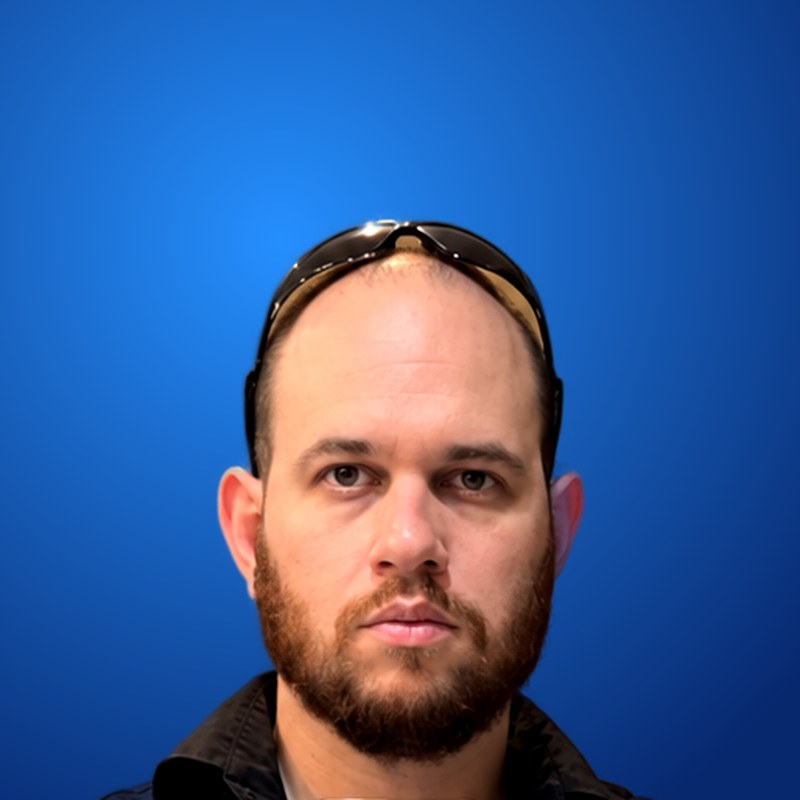
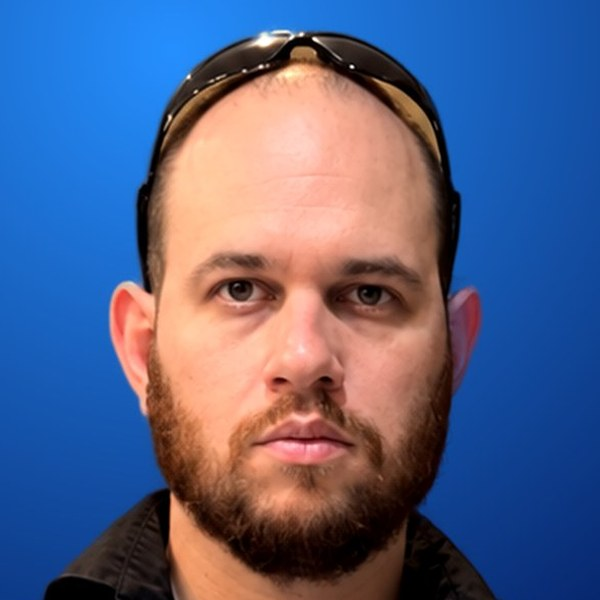
Aumenta a foto do Andrade na seção Sobre e aproxima o enquadramento do rosto
Claude-Session: https://claude.ai/code/session_01CSiihmqNh7Xu44A97bcgED

diff --git a/assets/css/style.css b/assets/css/style.css
@@ -102,7 +102,7 @@ p { margin: 0; }
 .profile-card { background: linear-gradient(160deg, #121822, #0D1118); border: 1px solid #1F2733; border-radius: 22px; padding: 32px; display: flex; flex-direction: column; gap: 20px; box-shadow: 0 30px 80px rgba(0,0,0,.45); }
 .profile-head { display: flex; align-items: center; gap: 16px; }
 .avatar { width: 64px; height: 64px; border-radius: 50%; background: linear-gradient(140deg, #007BFF, #083D91); display: flex; align-items: center; justify-content: center; font-family: var(--display); font-weight: 700; font-size: 28px; color: #FFFFFF; flex-shrink: 0; }
-.avatar--lg { width: 220px; height: 220px; font-size: 88px; background: radial-gradient(circle at 30% 30%, #2690FF, #083D91 70%); box-shadow: 0 0 0 8px rgba(0,123,255,.12); }
+.avatar--lg { width: 280px; height: 280px; font-size: 88px; background: radial-gradient(circle at 30% 30%, #2690FF, #083D91 70%); box-shadow: 0 0 0 8px rgba(0,123,255,.12); }
 .avatar { overflow: hidden; }
 .avatar img { width: 100%; height: 100%; object-fit: cover; display: block; border-radius: 50%; }
 .profile-name { font-family: var(--display); font-weight: 700; font-size: 22px; color: #FFFFFF; }
@@ -177,7 +177,7 @@ p { margin: 0; }
 
 /* Sobre */
 .about { max-width: 1000px; margin: 0 auto; display: flex; flex-wrap: wrap; gap: 48px; align-items: center; }
-.about-photo { flex: 0 1 260px; display: flex; justify-content: center; }
+.about-photo { flex: 0 1 320px; display: flex; justify-content: center; }
 .about-text { flex: 1 1 420px; min-width: 0; display: flex; flex-direction: column; gap: 16px; }
 .about-text .lead { line-height: 1.7; }
 .icon-link { display: inline-flex; align-items: center; gap: 10px; }
@@ -265,6 +265,6 @@ p { margin: 0; }
   .mentoria { padding: 32px 24px; }
   .form-card { padding: 24px; }
   .profile-card { padding: 24px; }
-  .avatar--lg { width: 160px; height: 160px; font-size: 64px; }
+  .avatar--lg { width: 220px; height: 220px; font-size: 64px; }
   .fab-wa { right: 16px; bottom: 16px; width: 56px; height: 56px; }
 }

diff --git a/index.html b/index.html
@@ -153,7 +153,7 @@
 
 <section class="section section--alt" id="sobre">
 <div class="about">
-<div class="about-photo"><div class="avatar avatar--lg"><img src="assets/img/andrade.jpg" alt="Foto de Andrade, da Bravus Mídia" width="220" height="220" loading="lazy"></div></div>
+<div class="about-photo"><div class="avatar avatar--lg"><img src="assets/img/andrade.jpg" alt="Foto de Andrade, da Bravus Mídia" width="280" height="280" loading="lazy"></div></div>
 <div class="about-text">
 <span class="eyebrow">Quem somos</span>
 <h2 class="h2">Prazer, eu sou o Andrade.</h2>
